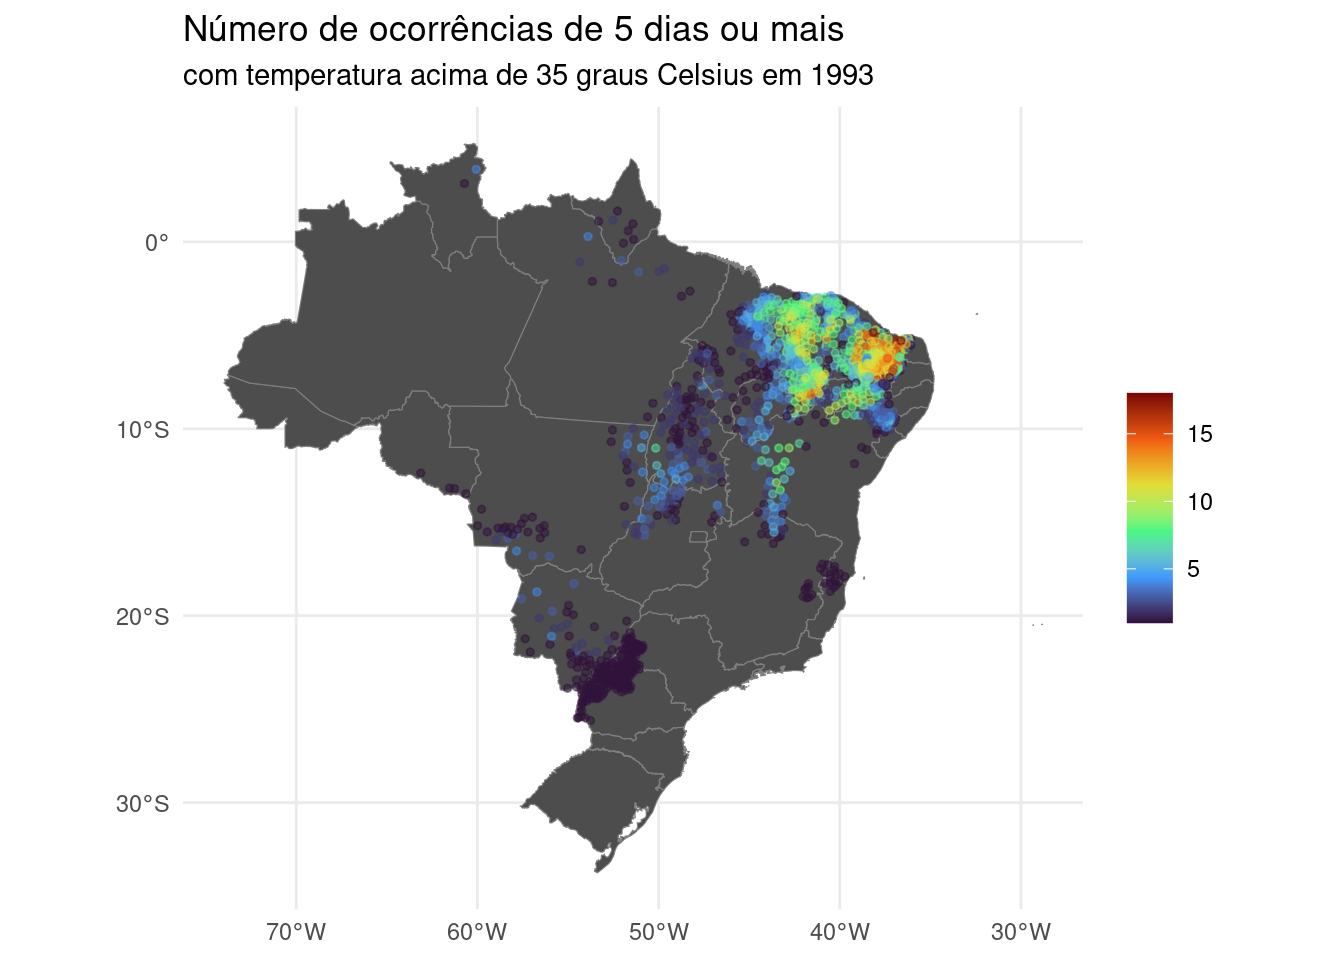
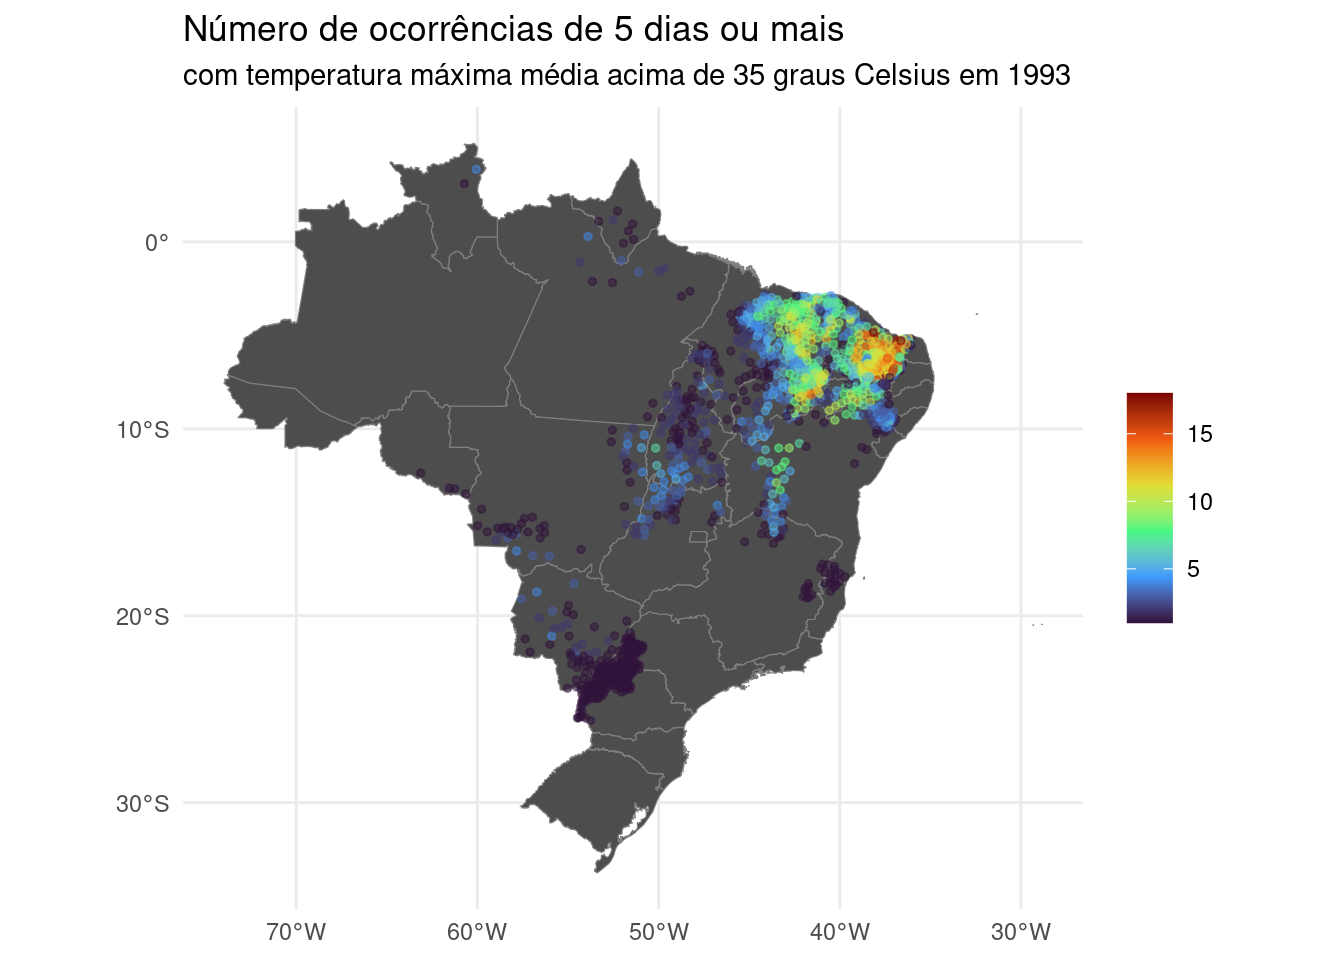
Update post

Changed region(s): [[0.3125, 0.0625, 0.8125, 0.0938]]

diff --git a/docs/posts/persistent_heat.html b/docs/posts/persistent_heat.html
@@ -380,7 +380,7 @@ gtag('config', 'G-2M7VLSRDCB', { 'anonymize_ip': true});
 <span id="cb4-3"><a href="#cb4-3" aria-hidden="true" tabindex="-1"></a>  <span class="fu">geom_sf</span>(<span class="at">data =</span> <span class="fu">subset</span>(res_2023_map, temp_3_35 <span class="sc">&gt;</span> <span class="dv">0</span>), <span class="fu">aes</span>(<span class="at">color =</span> temp_3_35), <span class="at">size =</span> <span class="dv">1</span>, <span class="at">alpha =</span> <span class="fl">0.5</span>) <span class="sc">+</span></span>
 <span id="cb4-4"><a href="#cb4-4" aria-hidden="true" tabindex="-1"></a>  <span class="fu">scale_colour_viridis_c</span>(<span class="at">option =</span> <span class="st">"turbo"</span>) <span class="sc">+</span></span>
 <span id="cb4-5"><a href="#cb4-5" aria-hidden="true" tabindex="-1"></a>  <span class="fu">theme_minimal</span>() <span class="sc">+</span></span>
-<span id="cb4-6"><a href="#cb4-6" aria-hidden="true" tabindex="-1"></a>  <span class="fu">labs</span>(<span class="at">title =</span> <span class="st">"Número de ocorrências de 3 dias ou mais "</span>, <span class="at">subtitle =</span> <span class="st">"com temperatura acima de 35 graus Celsius em 2023"</span>, <span class="at">color =</span> <span class="cn">NULL</span>)</span></code><button title="Copy to Clipboard" class="code-copy-button"><i class="bi"></i></button></pre></div>
+<span id="cb4-6"><a href="#cb4-6" aria-hidden="true" tabindex="-1"></a>  <span class="fu">labs</span>(<span class="at">title =</span> <span class="st">"Número de ocorrências de 3 dias ou mais "</span>, <span class="at">subtitle =</span> <span class="st">"com temperatura máxima média acima de 35 graus Celsius em 2023"</span>, <span class="at">color =</span> <span class="cn">NULL</span>)</span></code><button title="Copy to Clipboard" class="code-copy-button"><i class="bi"></i></button></pre></div>
 <div class="cell-output-display">
 <div>
 <figure class="figure">
@@ -395,7 +395,7 @@ gtag('config', 'G-2M7VLSRDCB', { 'anonymize_ip': true});
 <span id="cb5-3"><a href="#cb5-3" aria-hidden="true" tabindex="-1"></a>  <span class="fu">geom_sf</span>(<span class="at">data =</span> <span class="fu">subset</span>(res_1993_map, temp_3_35 <span class="sc">&gt;</span> <span class="dv">0</span>), <span class="fu">aes</span>(<span class="at">color =</span> temp_3_35), <span class="at">size =</span> <span class="dv">1</span>, <span class="at">alpha =</span> <span class="fl">0.5</span>) <span class="sc">+</span></span>
 <span id="cb5-4"><a href="#cb5-4" aria-hidden="true" tabindex="-1"></a>  <span class="fu">scale_colour_viridis_c</span>(<span class="at">option =</span> <span class="st">"turbo"</span>) <span class="sc">+</span></span>
 <span id="cb5-5"><a href="#cb5-5" aria-hidden="true" tabindex="-1"></a>  <span class="fu">theme_minimal</span>() <span class="sc">+</span></span>
-<span id="cb5-6"><a href="#cb5-6" aria-hidden="true" tabindex="-1"></a>  <span class="fu">labs</span>(<span class="at">title =</span> <span class="st">"Número de ocorrências de 3 dias ou mais "</span>, <span class="at">subtitle =</span> <span class="st">"com temperatura acima de 35 graus Celsius em 1993"</span>, <span class="at">color =</span> <span class="cn">NULL</span>)</span></code><button title="Copy to Clipboard" class="code-copy-button"><i class="bi"></i></button></pre></div>
+<span id="cb5-6"><a href="#cb5-6" aria-hidden="true" tabindex="-1"></a>  <span class="fu">labs</span>(<span class="at">title =</span> <span class="st">"Número de ocorrências de 3 dias ou mais "</span>, <span class="at">subtitle =</span> <span class="st">"com temperatura máxima média acima de 35 graus Celsius em 1993"</span>, <span class="at">color =</span> <span class="cn">NULL</span>)</span></code><button title="Copy to Clipboard" class="code-copy-button"><i class="bi"></i></button></pre></div>
 <div class="cell-output-display">
 <div>
 <figure class="figure">
@@ -410,7 +410,7 @@ gtag('config', 'G-2M7VLSRDCB', { 'anonymize_ip': true});
 <span id="cb6-3"><a href="#cb6-3" aria-hidden="true" tabindex="-1"></a>  <span class="fu">geom_sf</span>(<span class="at">data =</span> <span class="fu">subset</span>(res_2023_map, temp_5_35 <span class="sc">&gt;</span> <span class="dv">0</span>), <span class="fu">aes</span>(<span class="at">color =</span> temp_5_35), <span class="at">size =</span> <span class="dv">1</span>, <span class="at">alpha =</span> <span class="fl">0.5</span>) <span class="sc">+</span></span>
 <span id="cb6-4"><a href="#cb6-4" aria-hidden="true" tabindex="-1"></a>  <span class="fu">scale_colour_viridis_c</span>(<span class="at">option =</span> <span class="st">"turbo"</span>) <span class="sc">+</span></span>
 <span id="cb6-5"><a href="#cb6-5" aria-hidden="true" tabindex="-1"></a>  <span class="fu">theme_minimal</span>() <span class="sc">+</span></span>
-<span id="cb6-6"><a href="#cb6-6" aria-hidden="true" tabindex="-1"></a>  <span class="fu">labs</span>(<span class="at">title =</span> <span class="st">"Número de ocorrências de 5 dias ou mais"</span>, <span class="at">subtitle =</span> <span class="st">"com temperatura acima de 35 graus Celsius em 2023"</span>, <span class="at">color =</span> <span class="cn">NULL</span>)</span></code><button title="Copy to Clipboard" class="code-copy-button"><i class="bi"></i></button></pre></div>
+<span id="cb6-6"><a href="#cb6-6" aria-hidden="true" tabindex="-1"></a>  <span class="fu">labs</span>(<span class="at">title =</span> <span class="st">"Número de ocorrências de 5 dias ou mais"</span>, <span class="at">subtitle =</span> <span class="st">"com temperatura máxima média acima de 35 graus Celsius em 2023"</span>, <span class="at">color =</span> <span class="cn">NULL</span>)</span></code><button title="Copy to Clipboard" class="code-copy-button"><i class="bi"></i></button></pre></div>
 <div class="cell-output-display">
 <div>
 <figure class="figure">
@@ -425,7 +425,7 @@ gtag('config', 'G-2M7VLSRDCB', { 'anonymize_ip': true});
 <span id="cb7-3"><a href="#cb7-3" aria-hidden="true" tabindex="-1"></a>  <span class="fu">geom_sf</span>(<span class="at">data =</span> <span class="fu">subset</span>(res_1993_map, temp_5_35 <span class="sc">&gt;</span> <span class="dv">0</span>), <span class="fu">aes</span>(<span class="at">color =</span> temp_5_35), <span class="at">size =</span> <span class="dv">1</span>, <span class="at">alpha =</span> <span class="fl">0.5</span>) <span class="sc">+</span></span>
 <span id="cb7-4"><a href="#cb7-4" aria-hidden="true" tabindex="-1"></a>  <span class="fu">scale_colour_viridis_c</span>(<span class="at">option =</span> <span class="st">"turbo"</span>) <span class="sc">+</span></span>
 <span id="cb7-5"><a href="#cb7-5" aria-hidden="true" tabindex="-1"></a>  <span class="fu">theme_minimal</span>() <span class="sc">+</span></span>
-<span id="cb7-6"><a href="#cb7-6" aria-hidden="true" tabindex="-1"></a>  <span class="fu">labs</span>(<span class="at">title =</span> <span class="st">"Número de ocorrências de 5 dias ou mais"</span>, <span class="at">subtitle =</span> <span class="st">"com temperatura acima de 35 graus Celsius em 1993"</span>, <span class="at">color =</span> <span class="cn">NULL</span>)</span></code><button title="Copy to Clipboard" class="code-copy-button"><i class="bi"></i></button></pre></div>
+<span id="cb7-6"><a href="#cb7-6" aria-hidden="true" tabindex="-1"></a>  <span class="fu">labs</span>(<span class="at">title =</span> <span class="st">"Número de ocorrências de 5 dias ou mais"</span>, <span class="at">subtitle =</span> <span class="st">"com temperatura máxima média acima de 35 graus Celsius em 1993"</span>, <span class="at">color =</span> <span class="cn">NULL</span>)</span></code><button title="Copy to Clipboard" class="code-copy-button"><i class="bi"></i></button></pre></div>
 <div class="cell-output-display">
 <div>
 <figure class="figure">
@@ -440,7 +440,7 @@ gtag('config', 'G-2M7VLSRDCB', { 'anonymize_ip': true});
 <span id="cb8-3"><a href="#cb8-3" aria-hidden="true" tabindex="-1"></a>  <span class="fu">geom_sf</span>(<span class="at">data =</span> <span class="fu">subset</span>(res_2023_map, temp_3_40 <span class="sc">&gt;</span> <span class="dv">0</span>), <span class="fu">aes</span>(<span class="at">color =</span> temp_3_40), <span class="at">size =</span> <span class="dv">1</span>, <span class="at">alpha =</span> <span class="fl">0.5</span>) <span class="sc">+</span></span>
 <span id="cb8-4"><a href="#cb8-4" aria-hidden="true" tabindex="-1"></a>  <span class="fu">scale_colour_viridis_c</span>(<span class="at">option =</span> <span class="st">"turbo"</span>) <span class="sc">+</span></span>
 <span id="cb8-5"><a href="#cb8-5" aria-hidden="true" tabindex="-1"></a>  <span class="fu">theme_minimal</span>() <span class="sc">+</span></span>
-<span id="cb8-6"><a href="#cb8-6" aria-hidden="true" tabindex="-1"></a>  <span class="fu">labs</span>(<span class="at">title =</span> <span class="st">"Número de ocorrências de 3 dias ou mais"</span>, <span class="at">subtitle =</span> <span class="st">"com temperatura acima de 40 graus Celsius em 2023"</span>, <span class="at">color =</span> <span class="cn">NULL</span>)</span></code><button title="Copy to Clipboard" class="code-copy-button"><i class="bi"></i></button></pre></div>
+<span id="cb8-6"><a href="#cb8-6" aria-hidden="true" tabindex="-1"></a>  <span class="fu">labs</span>(<span class="at">title =</span> <span class="st">"Número de ocorrências de 3 dias ou mais"</span>, <span class="at">subtitle =</span> <span class="st">"com temperatura máxima média acima de 40 graus Celsius em 2023"</span>, <span class="at">color =</span> <span class="cn">NULL</span>)</span></code><button title="Copy to Clipboard" class="code-copy-button"><i class="bi"></i></button></pre></div>
 <div class="cell-output-display">
 <div>
 <figure class="figure">
@@ -455,7 +455,7 @@ gtag('config', 'G-2M7VLSRDCB', { 'anonymize_ip': true});
 <span id="cb9-3"><a href="#cb9-3" aria-hidden="true" tabindex="-1"></a>  <span class="fu">geom_sf</span>(<span class="at">data =</span> <span class="fu">subset</span>(res_1993_map, temp_3_40 <span class="sc">&gt;</span> <span class="dv">0</span>), <span class="fu">aes</span>(<span class="at">color =</span> temp_3_40), <span class="at">size =</span> <span class="dv">1</span>, <span class="at">alpha =</span> <span class="fl">0.5</span>) <span class="sc">+</span></span>
 <span id="cb9-4"><a href="#cb9-4" aria-hidden="true" tabindex="-1"></a>  <span class="fu">scale_colour_viridis_c</span>(<span class="at">option =</span> <span class="st">"turbo"</span>) <span class="sc">+</span></span>
 <span id="cb9-5"><a href="#cb9-5" aria-hidden="true" tabindex="-1"></a>  <span class="fu">theme_minimal</span>() <span class="sc">+</span></span>
-<span id="cb9-6"><a href="#cb9-6" aria-hidden="true" tabindex="-1"></a>  <span class="fu">labs</span>(<span class="at">title =</span> <span class="st">"Número de ocorrências de 3 dias ou mais"</span>, <span class="at">subtitle =</span> <span class="st">"com temperatura acima de 40 graus Celsius em 1993"</span>, <span class="at">color =</span> <span class="cn">NULL</span>)</span></code><button title="Copy to Clipboard" class="code-copy-button"><i class="bi"></i></button></pre></div>
+<span id="cb9-6"><a href="#cb9-6" aria-hidden="true" tabindex="-1"></a>  <span class="fu">labs</span>(<span class="at">title =</span> <span class="st">"Número de ocorrências de 3 dias ou mais"</span>, <span class="at">subtitle =</span> <span class="st">"com temperatura máxima média acima de 40 graus Celsius em 1993"</span>, <span class="at">color =</span> <span class="cn">NULL</span>)</span></code><button title="Copy to Clipboard" class="code-copy-button"><i class="bi"></i></button></pre></div>
 <div class="cell-output-display">
 <div>
 <figure class="figure">
@@ -470,7 +470,7 @@ gtag('config', 'G-2M7VLSRDCB', { 'anonymize_ip': true});
 <span id="cb10-3"><a href="#cb10-3" aria-hidden="true" tabindex="-1"></a>  <span class="fu">geom_sf</span>(<span class="at">data =</span> <span class="fu">subset</span>(res_2023_map, temp_5_40 <span class="sc">&gt;</span> <span class="dv">0</span>), <span class="fu">aes</span>(<span class="at">color =</span> temp_5_40), <span class="at">size =</span> <span class="dv">1</span>, <span class="at">alpha =</span> <span class="fl">0.5</span>) <span class="sc">+</span></span>
 <span id="cb10-4"><a href="#cb10-4" aria-hidden="true" tabindex="-1"></a>  <span class="fu">scale_colour_viridis_c</span>(<span class="at">option =</span> <span class="st">"turbo"</span>) <span class="sc">+</span></span>
 <span id="cb10-5"><a href="#cb10-5" aria-hidden="true" tabindex="-1"></a>  <span class="fu">theme_minimal</span>() <span class="sc">+</span></span>
-<span id="cb10-6"><a href="#cb10-6" aria-hidden="true" tabindex="-1"></a>  <span class="fu">labs</span>(<span class="at">title =</span> <span class="st">"Número de ocorrências de 5 dias ou mais"</span>, <span class="at">subtitle =</span> <span class="st">"com temperatura acima de 40 graus Celsius em 2023"</span>, <span class="at">color =</span> <span class="cn">NULL</span>)</span></code><button title="Copy to Clipboard" class="code-copy-button"><i class="bi"></i></button></pre></div>
+<span id="cb10-6"><a href="#cb10-6" aria-hidden="true" tabindex="-1"></a>  <span class="fu">labs</span>(<span class="at">title =</span> <span class="st">"Número de ocorrências de 5 dias ou mais"</span>, <span class="at">subtitle =</span> <span class="st">"com temperatura máxima média acima de 40 graus Celsius em 2023"</span>, <span class="at">color =</span> <span class="cn">NULL</span>)</span></code><button title="Copy to Clipboard" class="code-copy-button"><i class="bi"></i></button></pre></div>
 <div class="cell-output-display">
 <div>
 <figure class="figure">
@@ -485,7 +485,7 @@ gtag('config', 'G-2M7VLSRDCB', { 'anonymize_ip': true});
 <span id="cb11-3"><a href="#cb11-3" aria-hidden="true" tabindex="-1"></a>  <span class="fu">geom_sf</span>(<span class="at">data =</span> <span class="fu">subset</span>(res_1993_map, temp_5_40 <span class="sc">&gt;</span> <span class="dv">0</span>), <span class="fu">aes</span>(<span class="at">color =</span> temp_5_40), <span class="at">size =</span> <span class="dv">1</span>, <span class="at">alpha =</span> <span class="fl">0.5</span>) <span class="sc">+</span></span>
 <span id="cb11-4"><a href="#cb11-4" aria-hidden="true" tabindex="-1"></a>  <span class="fu">scale_colour_viridis_c</span>(<span class="at">option =</span> <span class="st">"turbo"</span>) <span class="sc">+</span></span>
 <span id="cb11-5"><a href="#cb11-5" aria-hidden="true" tabindex="-1"></a>  <span class="fu">theme_minimal</span>() <span class="sc">+</span></span>
-<span id="cb11-6"><a href="#cb11-6" aria-hidden="true" tabindex="-1"></a>  <span class="fu">labs</span>(<span class="at">title =</span> <span class="st">"Número de ocorrências de 5 dias ou mais"</span>, <span class="at">subtitle =</span> <span class="st">"com temperatura acima de 40 graus Celsius em 1993"</span>, <span class="at">color =</span> <span class="cn">NULL</span>)</span></code><button title="Copy to Clipboard" class="code-copy-button"><i class="bi"></i></button></pre></div>
+<span id="cb11-6"><a href="#cb11-6" aria-hidden="true" tabindex="-1"></a>  <span class="fu">labs</span>(<span class="at">title =</span> <span class="st">"Número de ocorrências de 5 dias ou mais"</span>, <span class="at">subtitle =</span> <span class="st">"com temperatura máxima média acima de 40 graus Celsius em 1993"</span>, <span class="at">color =</span> <span class="cn">NULL</span>)</span></code><button title="Copy to Clipboard" class="code-copy-button"><i class="bi"></i></button></pre></div>
 <div class="cell-output-display">
 <div>
 <figure class="figure">

diff --git a/docs/blog.html b/docs/blog.html
@@ -239,7 +239,7 @@ window.Quarto = {
 
 <div class="quarto-listing quarto-listing-container-default" id="listing-listing">
 <div class="list quarto-listing-default">
-<div class="quarto-post image-right" data-index="0" data-categories="climate" data-listing-date-sort="1713736800000" data-listing-file-modified-sort="1713799179822" data-listing-date-modified-sort="NaN" data-listing-reading-time-sort="6" data-listing-word-count-sort="1199">
+<div class="quarto-post image-right" data-index="0" data-categories="climate" data-listing-date-sort="1713736800000" data-listing-file-modified-sort="1713799467726" data-listing-date-modified-sort="NaN" data-listing-reading-time-sort="7" data-listing-word-count-sort="1215">
 <div class="thumbnail">
 <p><a href="./posts/persistent_heat.html" class="no-external"></a></p><a href="./posts/persistent_heat.html" class="no-external">
 <p class="card-img-top"><img src="posts/persistent_heat_files/figure-html/unnamed-chunk-8-1.png"  class="thumbnail-image card-img"/></p>
